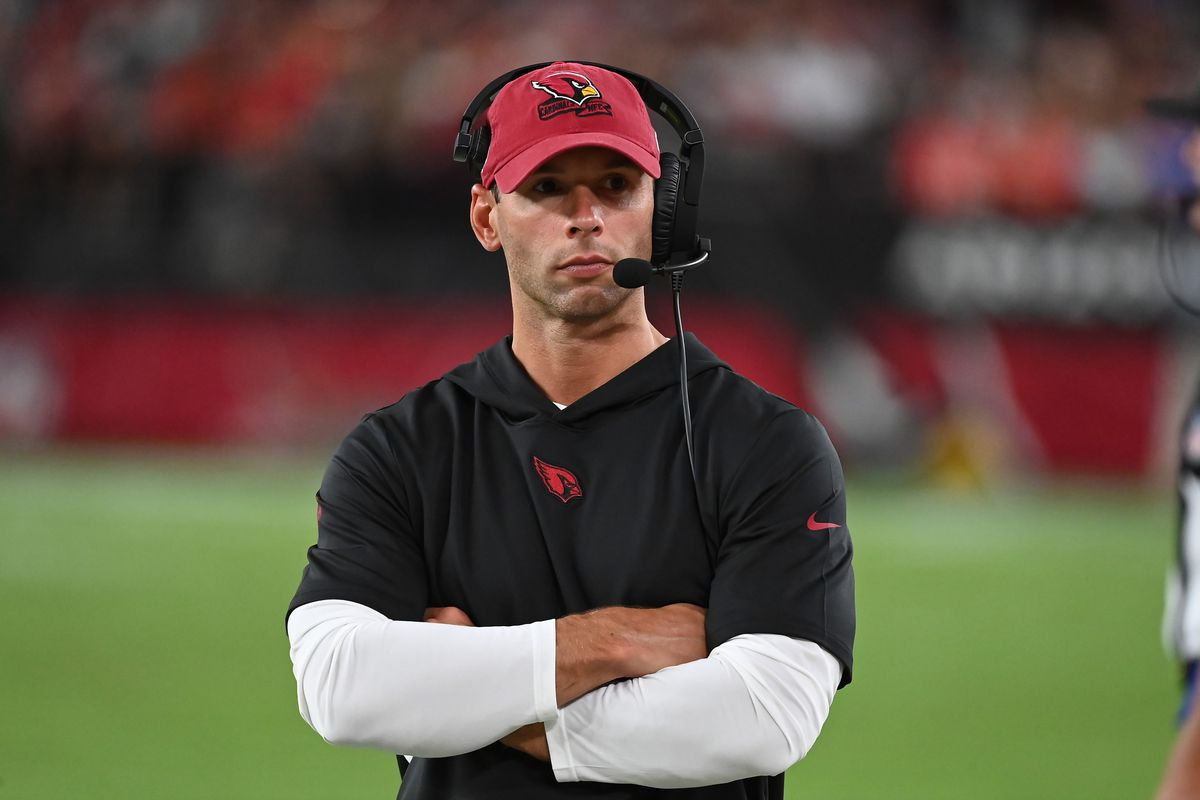
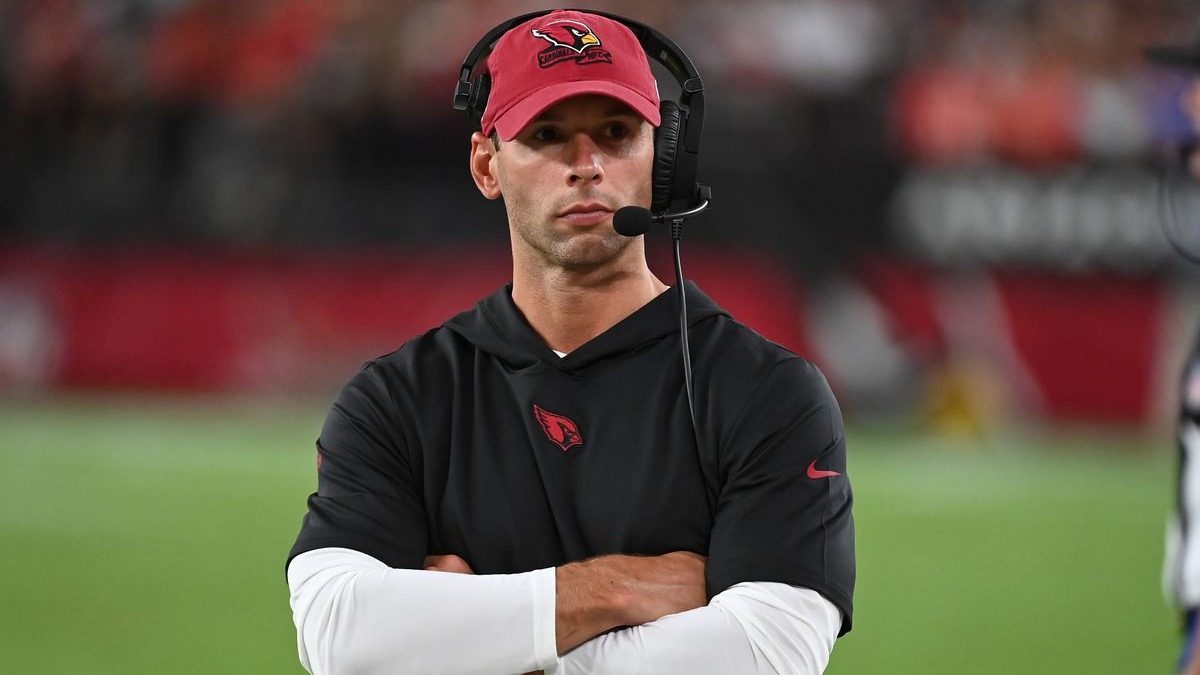
Sizing adjustments

diff --git a/src/App.css b/src/App.css
@@ -7,7 +7,7 @@
 .container {
 	display: grid;
 	grid-template-rows: auto;
-	grid-template-columns: 1fr 2fr;
+	grid-template-columns: 1fr 1.75fr;
 	grid-template-areas:
 		"header header"
 		"aside carousel"
@@ -47,7 +47,7 @@ aside {
 	grid-area: aside;
 	display: flex;
 	flex-direction: column;
-	justify-items: flex-start;
+	align-self: flex-start;
 	gap: 20px;
 	margin: 0 20px;
 	padding: 20px;
@@ -67,25 +67,24 @@ aside a:hover {
 .carousel {
 	grid-area: carousel;
 	position: relative;
+	display: flex;
+	flex-direction: column;
+	align-self: flex-start;
+	margin-right: 20px;
 	border: 5px solid black;
-	margin: 0 20px;
-	overflow: hidden;
-	aspect-ratio: 16/9;
 }
 
 .carousel img {
 	width: 100%;
+	aspect-ratio: 16/9;
 }
 
 .caption {
-	position: absolute;
-	top: 5%;
-	left: 0;
-	width: 100%;
-	/* background: rgba(0, 0, 0, 0.6); */
 	color: white;
-	font-size: 3em;
+	font-size: 2.5em;
 	text-align: center;
+	padding: 10px 0;
+	background: rgba(0, 0, 0, 0.6);
 }
 
 .carousel button {
@@ -100,11 +99,11 @@ aside a:hover {
 
 .carousel .controls {
 	position: absolute;
-	bottom: 5%;
+	bottom: 12%;
 	left: 50%;
-	transform: translateX(-50%);
 	display: flex;
 	gap: 10px;
+	transform: translateX(-50%);
 	padding: 10px;
 	border-radius: 5px;
 	background: rgba(0, 0, 0, 0.5);

diff --git a/src/components/Carousel.js b/src/components/Carousel.js
@@ -47,13 +47,10 @@ const Carousel = () => {
 
 	return (
 		<div className="carousel">
-			<a href="#">
-				<img
-					src={`${process.env.PUBLIC_URL}/${images[currentImageIndex].src}`}
-					alt=""
-				/>
-			</a>
-			<div className="caption">{images[currentImageIndex].caption}</div>
+			<img
+				src={`${process.env.PUBLIC_URL}/${images[currentImageIndex].src}`}
+				alt=""
+			/>
 			<div className="controls">
 				<button onClick={prevImage}>&#10094;</button>
 				<button onClick={() => setIsPlaying(!isPlaying)}>
@@ -61,6 +58,7 @@ const Carousel = () => {
 				</button>
 				<button onClick={nextImage}>&#10095;</button>
 			</div>
+			<div className="caption">{images[currentImageIndex].caption}</div>
 		</div>
 	);
 };

diff --git a/public/index.html b/public/index.html
@@ -24,7 +24,7 @@
       work correctly both with client-side routing and a non-root public URL.
       Learn how to configure a non-root public URL by running `npm run build`.
     -->
-		<title>Touchdown Tales</title>
+		<title>Another Football Blog</title>
 	</head>
 	<body>
 		<noscript>You need to enable JavaScript to run this app.</noscript>

diff --git a/src/components/Footer.js b/src/components/Footer.js
@@ -5,7 +5,7 @@ const Footer = () => {
 
 	return (
 		<footer>
-			<p>&copy; {currentYear} Just Another Football Blog</p>
+			<p>&copy; {currentYear} Another Football Blog</p>
 			<p>Headlines Courtesy of ESPN.com</p>
 		</footer>
 	);

diff --git a/src/components/Header.js b/src/components/Header.js
@@ -3,7 +3,7 @@ import React from "react";
 const Header = () => {
 	return (
 		<header>
-			<h1>Just Another Football Blog</h1>
+			<h1>Another Football Blog</h1>
 			<nav>
 				<ul>
 					<li>

diff --git a/src/components/Headlines.js b/src/components/Headlines.js
@@ -42,6 +42,7 @@ const Headlines = () => {
 					</h3>
 				</article>
 			))}
+			<h2>Top Articles</h2>
 		</aside>
 	);
 };
